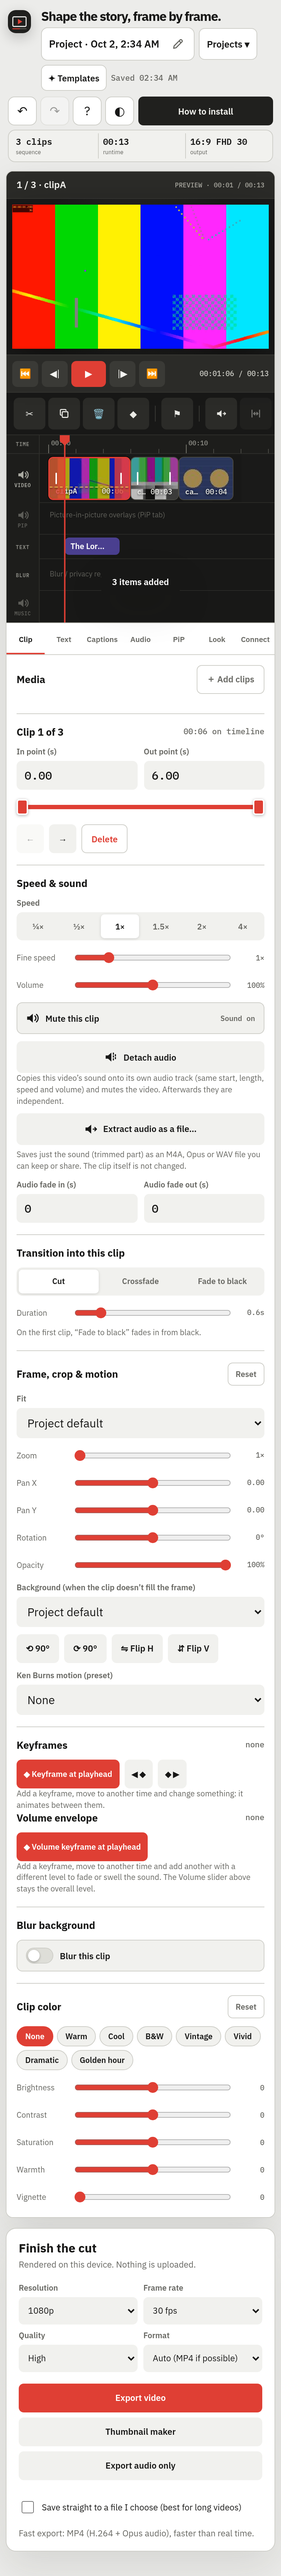
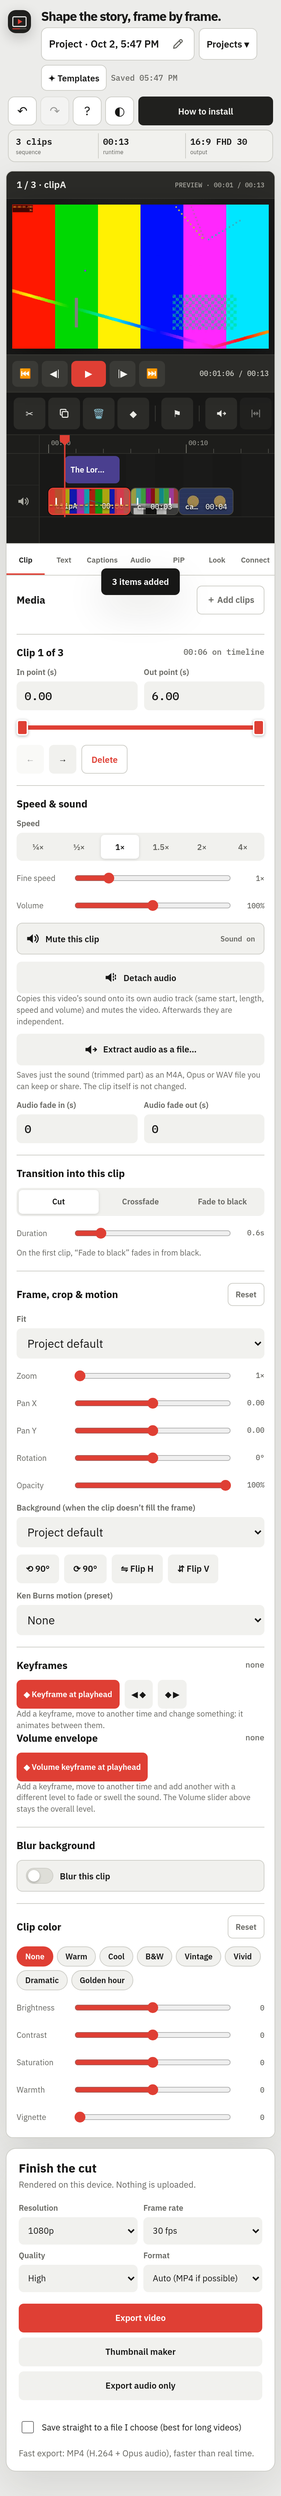
WIP generic lanes: overlay thumbnails, README, copy cleanup

diff --git a/index.html b/index.html
@@ -289,7 +289,7 @@
       <div class="tab-panel" id="tab-captions">
         <section class="section">
           <div class="section-head"><h2>Captions</h2><button class="btn primary small" data-action="transcribe" id="transBtn" type="button">✨ Generate…</button></div>
-          <p class="hint" id="capEmptyHint">Turn your speech into captions on this device (nothing is uploaded), import an .srt, or add them by hand. They show on a CAPS row of the timeline and are burned into the export.</p>
+          <p class="hint" id="capEmptyHint">Turn your speech into captions on this device (nothing is uploaded), import an .srt, or add them by hand. They appear as blocks on the timeline (move them to any lane) and are burned into the export.</p>
           <div class="button-row"><button class="btn secondary small" data-action="addCaption" type="button">＋ Caption at playhead</button><span class="hint grow" id="capCount"></span></div>
         </section>
         <div id="capPanel" hidden>
@@ -544,7 +544,7 @@
             <label class="btn primary" for="cloudInput" id="cloudBtn">Add from Drive, Photos or Files</label>
             <input id="cloudInput" type="file" accept="video/*,image/*,audio/*" multiple />
           </div>
-          <p class="hint" style="margin-top:8px">Opens your device's file picker. On Android, use the picker's menu to reach Google Drive and Photos; on iPhone choose Files or Photo Library. Video and photos go on the main track, audio on the music track.</p>
+          <p class="hint" style="margin-top:8px">Opens your device's file picker. On Android, use the picker's menu to reach Google Drive and Photos; on iPhone choose Files or Photo Library. You can drag any of them to any lane or time on the timeline afterwards.</p>
         </section>
         <section class="section" id="cnLink">
           <div class="section-head"><h2>Import from a link</h2></div>

diff --git a/js/timeline.js b/js/timeline.js
@@ -270,7 +270,7 @@ export class Timeline {
     // overlays (picture-in-picture)
     for (const o of p.overlays || []) {
       const n = this._node('o:' + o.id, () => {
-        const d = el('div', { class: 'tl-item tl-ovlitem' }, el('span'), el('div', { class: 'kfs' }), el('div', { class: 'volenv' }), el('div', { class: 'h-l' }), el('div', { class: 'h-r' }));
+        const d = el('div', { class: 'tl-item tl-ovlitem' }, el('div', { class: 'strip' }), el('span'), el('div', { class: 'kfs' }), el('div', { class: 'volenv' }), el('div', { class: 'h-l' }), el('div', { class: 'h-r' }));
         d.addEventListener('pointerdown', e => this.onItemDown(e, 'overlay', d._id));
         this.keyable(d, 'overlay');
         return d;
@@ -282,7 +282,9 @@ export class Timeline {
       if (lab._key !== lk) { lab._key = lk; lab.replaceChildren(icon(keyed ? 'key' : 'pip', 'ico item-ico'), ' ' + o.name, ...(om ? [' ', muteBadge('Muted')] : [])); }
       n.classList.toggle('sel', sel.type === 'overlay' && sel.id === o.id); n.setAttribute('aria-pressed', n.classList.contains('sel') ? 'true' : 'false');
       n.setAttribute('aria-label', `Overlay ${o.name}${om ? ' (muted)' : ''}, ${fmt(o.start)} to ${fmt(o.start + overlayLen(o))}`);
-      n.classList.toggle('offline', !this.app.media.peek(o.mediaId));
+      const orec = this.app.media.peek(o.mediaId);
+      n.classList.toggle('offline', !orec);
+      this.renderStrip(n.querySelector('.strip'), o, orec, Math.max(8, overlayLen(o) * this.pps));
       this.renderKfs(n, o, o.start, overlayLen(o));
       this.renderVolEnv(n, o, 'overlay', o.start, overlayLen(o), ITEM_H, sel.type === 'overlay' && sel.id === o.id && hasSound(o));
     }

diff --git a/css/app.css b/css/app.css
@@ -149,6 +149,9 @@ details.more[open]>summary{color:var(--ink)}
 .tl-blurritem{background:#2d6b8f;color:#fff}
 .tl-blurritem.animated span::after{content:" ✦";opacity:.8}
 .tl-ovlitem{background:#7a4a1c;color:#fff}
+.tl-ovlitem .strip{position:absolute;inset:0;display:flex;opacity:.5;pointer-events:none}
+.tl-ovlitem .strip img{height:100%;flex:1 1 0;min-width:0;object-fit:cover}
+.tl-ovlitem span{text-shadow:0 1px 3px #000}
 .tl-ovlitem.offline{background:repeating-linear-gradient(45deg,#3a1f1d 0 8px,#7a4a1c 8px 16px)}
 .tl-audioitem.voice{background:#6a2c52}
 .tl-textitem.animated span::after{content:" ✦";opacity:.8}

diff --git a/README.md b/README.md
@@ -6,7 +6,7 @@ The app is plain static files (HTML, CSS and ES modules). There's no build step.
 
 ## Features
 - **Timeline.** Whole-sequence playback with a playhead. Scrub on the ruler, zoom (buttons, slider, Ctrl+wheel, `+`/`-`/`0`), and use the separate **Video / PiP / Text / Audio** tracks. Music and voiceover tracks show waveforms (video clips show thumbnails), and keyframes show as ◆ diamonds (click one to jump to it). Clip widths match their durations. Drag clips to reorder them and drag their edges to trim. Snapping and markers are included. Touch works too: tap an item to select it, then drag it or its edges.
-- **Free-form timeline (like CapCut / Filmora / ElevenLabs Studio).** Every item can be dragged to any start time: main clips, images, PiP overlays, text, blur regions, music, voiceovers and detached audio, captions and markers. Drag **sideways** to change the time and **up or down** to change lane: drop onto another lane of the same kind, or into the **New lane** strip above/below a track to open one (stack as many PiP, text, blur and audio lanes as you like; a higher lane is drawn on top in the preview and the export). Items in one lane never overlap (CapCut style): a drop that would overlap lands in the nearest free spot, otherwise in a new lane. **Ripple** keeps its meaning: with Ripple **on** the main track stays joined (dragging a clip reorders it, deleting/trimming closes the hole and shifts what follows); with Ripple **off** a main clip goes exactly where you drop it, leaving a **gap** that plays and exports as black and silence. Dragging a main clip into the PiP track makes it an overlay, and an overlay dragged into the main track becomes a clip (timing, source range, speed, volume and opacity are kept; transitions, colour, motion keyframes and PiP size/position are not). Snapping (playhead, item edges, markers, 0) follows the **Snap** toggle with a visible guide; hold **Alt** to move without snapping. Keys: **Arrow** nudges the selected item one frame, **Shift+Arrow** one second. On a phone, press and drag an item (select it first); drag on empty track space to scroll, pinch with two fingers to zoom, and dragging near either edge auto-scrolls. Trim handles still trim. One drag is one undo step. Projects saved by earlier versions open unchanged. Still fixed by design: captions have one row (each caption is movable in time), and a main clip cannot overlap another main clip (use a PiP lane for that).
+- **Free-form lanes (like CapCut / Filmora / ElevenLabs Studio / Canva).** The timeline is one stack of plain, unlabelled lanes. Any item – a video clip, photo, overlay video, text, blur region, music, voiceover, caption – can sit on any lane at any time; items show what they are by their own look (thumbnail strip, waveform, text, coloured block), not by a row name. Drag **sideways** to change the start time, **up/down** to change lane; drop into the “New lane” strip above or below the stack to open a new lane (empty lanes close by themselves). A higher lane is drawn on top of a lower one, and the sound of every lane is mixed. A lane's speaker button (shown only when the lane has sound) mutes that whole lane. Dragging near something snaps to the playhead and to other items' edges (Snap button; hold **Alt** to move without snapping). **Ripple** on keeps the clips joined (dragging reorders them); off lets clips leave gaps. Dropping a clip over another clip turns it into a full-frame layer on its own lane (it keeps time, speed, volume and fades, but not transitions, colour grading, motion keyframes or fit). Arrow keys nudge the selected item (Shift = bigger steps); on a phone use the pinch gesture to zoom. Limits: captions cannot overlap each other in time (only one caption line is on screen), items on the same lane cannot overlap (the item moves to the nearest free spot or to a new lane), and one item is moved at a time. Old projects open unchanged: their items are placed on lanes in the same stacking order they were drawn in before.
 - **Edit.** Split at the playhead (`S` or the Split button) on whichever item is selected: a main clip, text layer, music or voice track, or overlay. With nothing selected it splits the main track. Keyframe and Ken Burns motion carry on smoothly across the cut, and trims, fades and loops are divided correctly. Also duplicate and delete (toolbar, Ctrl+D, Del) for every item type: clip, text, overlay, music, voice and marker. Split and Duplicate live only in the timeline toolbar and their shortcuts (the Clip, Text, Picture-in-picture and Look side panels no longer repeat them; the Projects list still has its own whole-project Duplicate). With nothing selected the buttons are dimmed and tapping one says what to select. Ripple (text, music and markers after an edit shift with it). Undo/redo covers every edit (Ctrl/Cmd+Z, Shift+Ctrl/Cmd+Z, Ctrl+Y).
 - **Per clip:** clips are labelled with their file name on the timeline (there is no name field in the Clip tab; a name saved in an older project is kept), trim, speed from 0.25× to 4× (audio keeps its pitch in the export), volume up to 200%, a **Mute** toggle (silent in preview and export, and it never ducks music), audio fade in/out, transition in (cut, crossfade, fade to black), fit, background override (blurred copy, black, white), zoom/pan crop, free rotation, 90° rotate, flip, opacity, Ken Burns motion, color (brightness, contrast, saturation, warmth, vignette) and presets (Warm, Cool, B&W, Vintage, Vivid, Dramatic, Golden hour).
 - **Global look:** aspect ratio (Original, Widescreen 16:9, Vertical 9:16 for Shorts, Square 1:1, Portrait 4:5), fit, background (black, white, custom color, blurred video; switching to Shorts turns on the blurred fill automatically), a global color grade, an end fade, and a logo/watermark with position, size and opacity.
